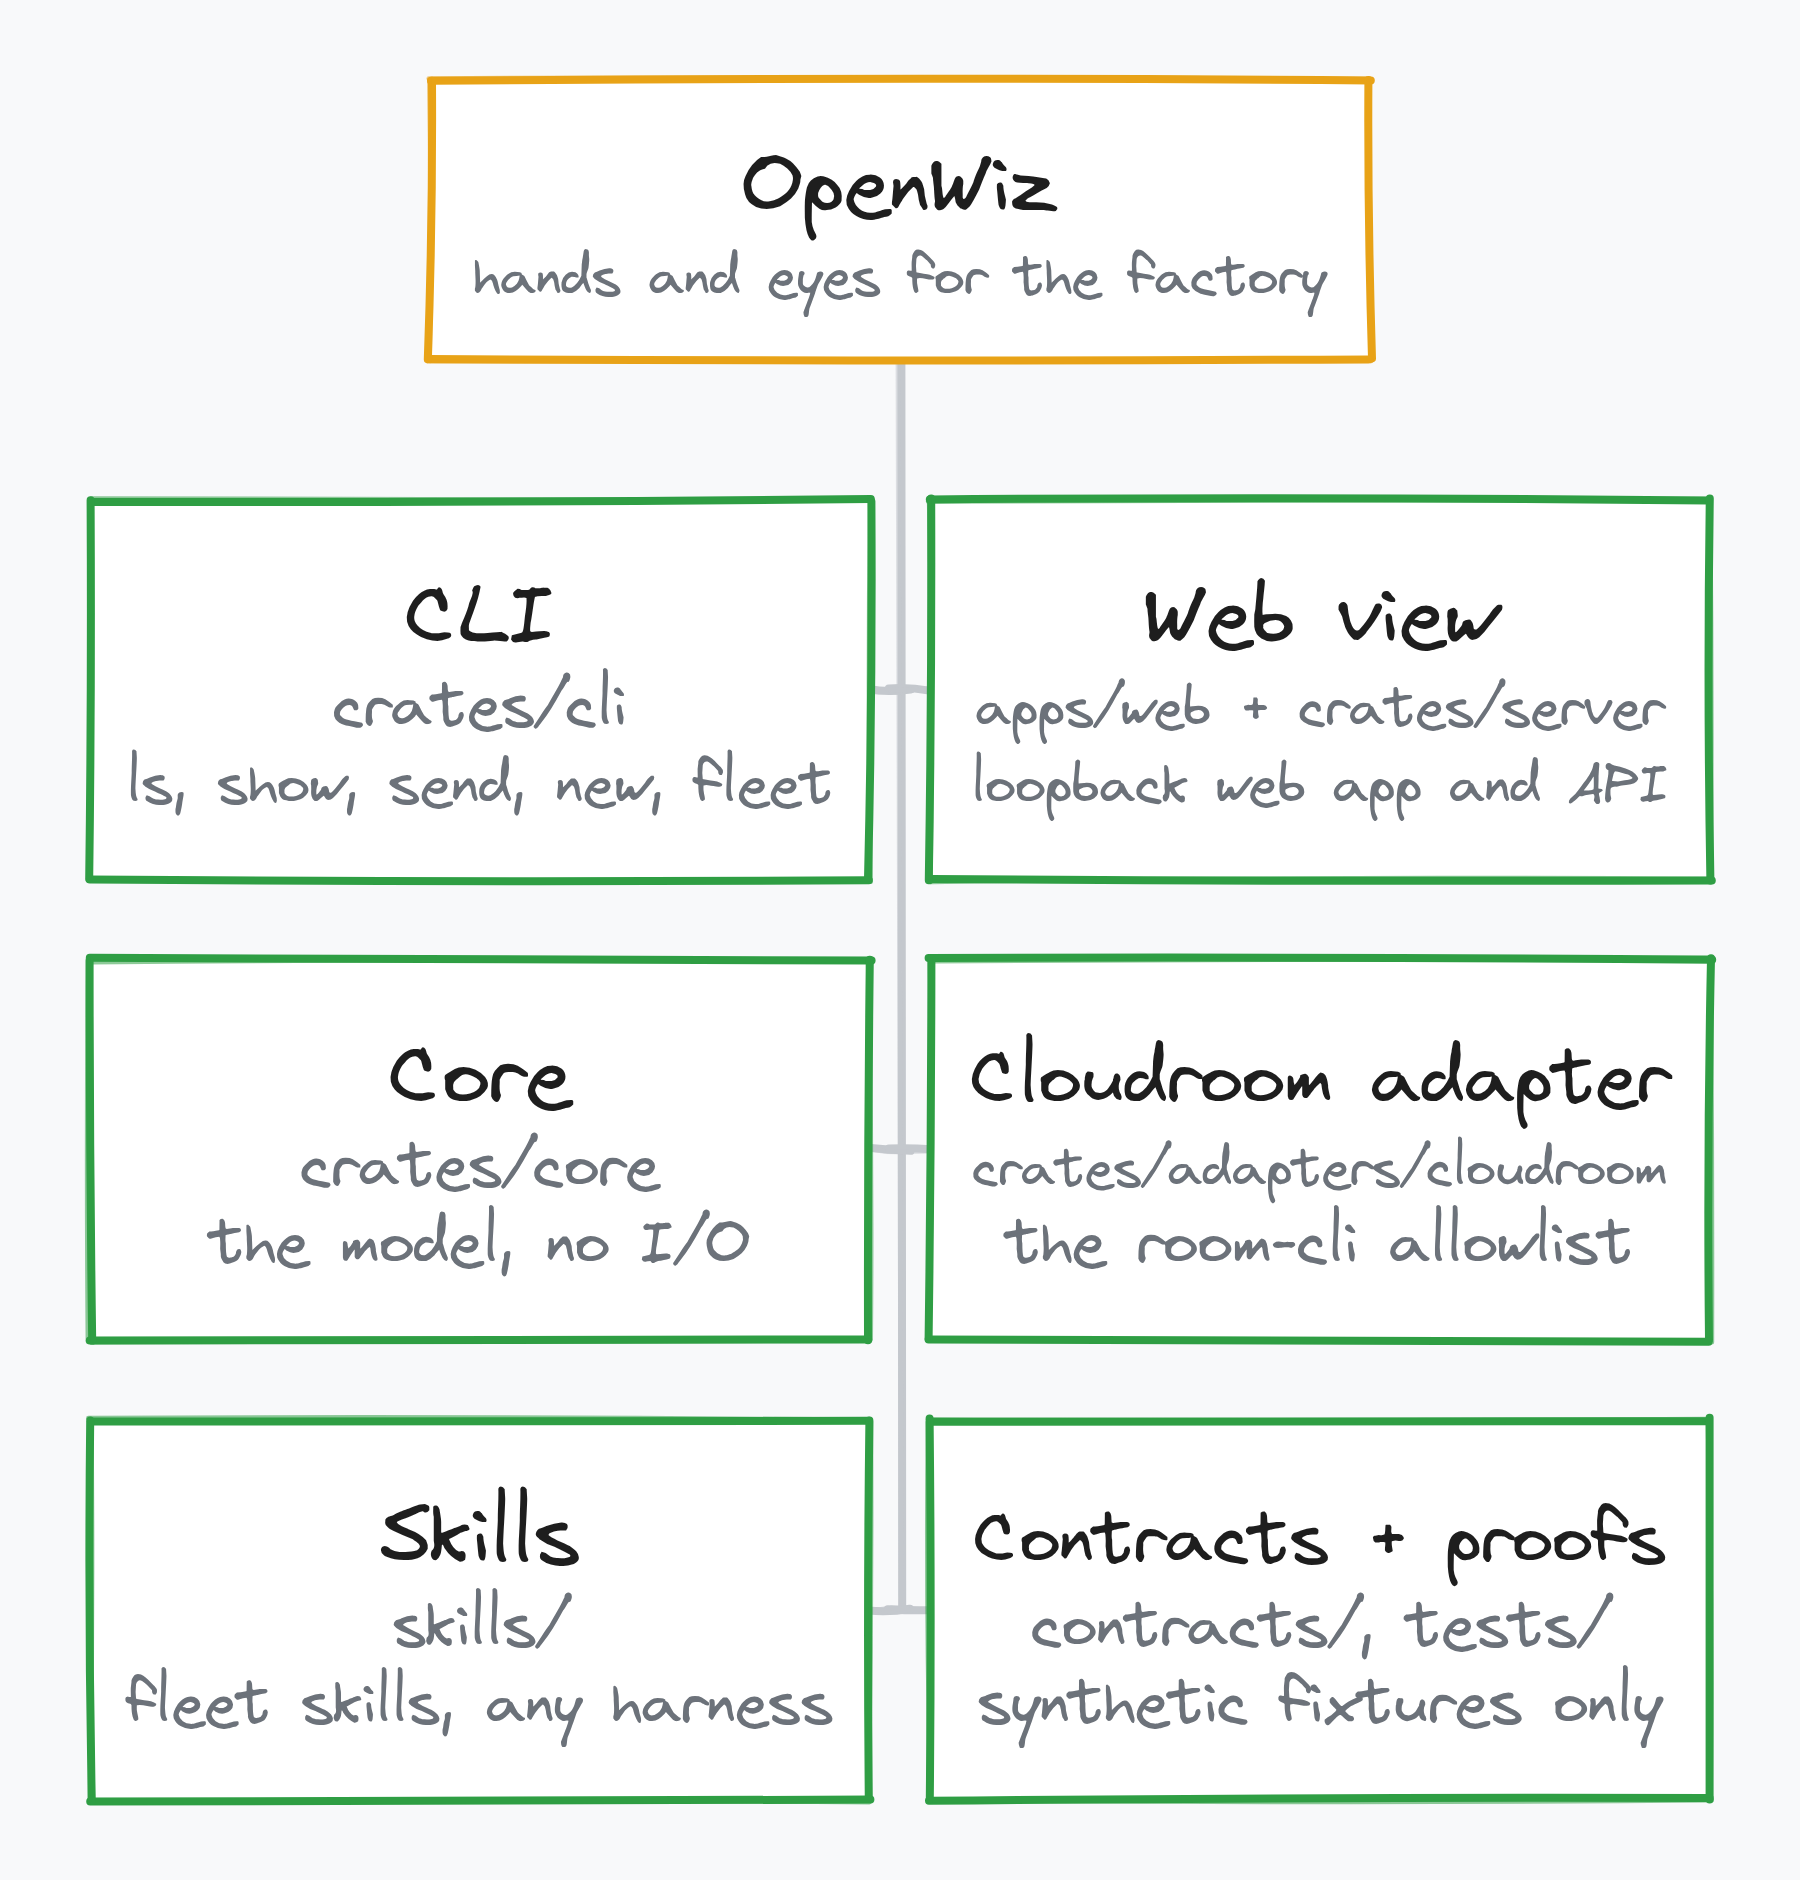
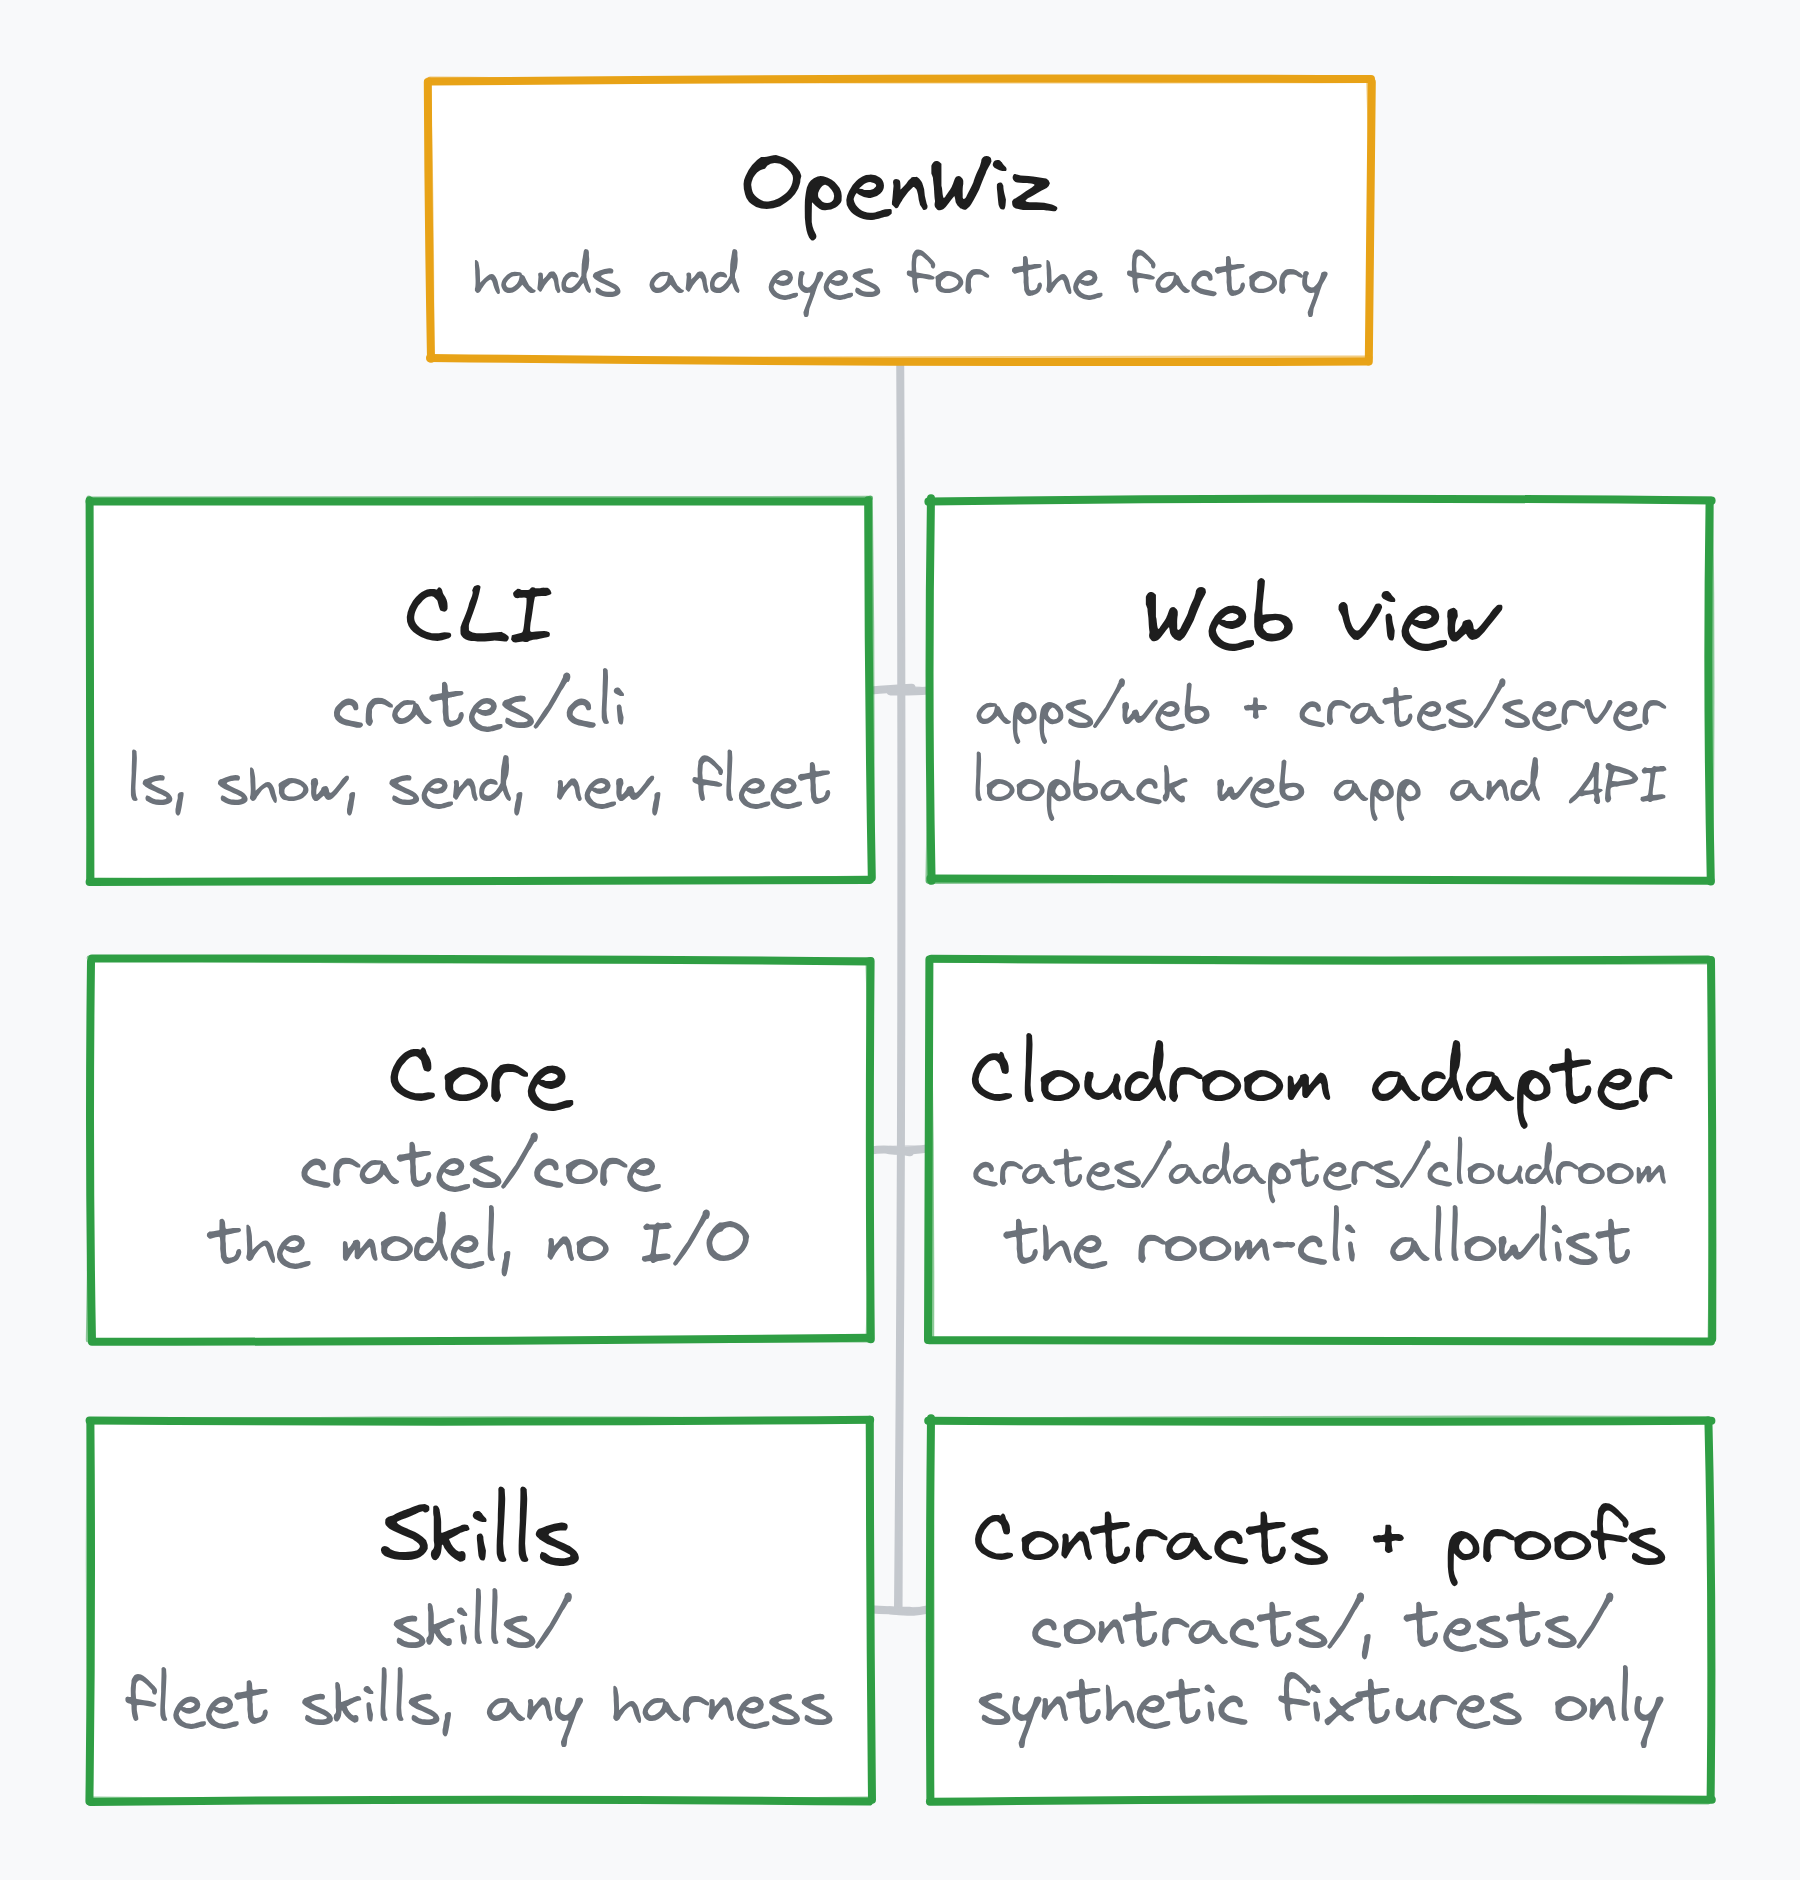
README map: a one-column picture for phones

diff --git a/README.md b/README.md
@@ -14,7 +14,10 @@ Development targets the public repository [openwizdev/OpenWiz](https://github.co
 
 ## Map
 
-![OpenWiz's parts: the CLI, the web view, the core, the Cloudroom adapter, the skills, and the contracts and proofs](docs/map.png)
+<picture>
+  <source media="(max-width: 600px)" srcset="docs/map-phone.png">
+  <img alt="OpenWiz's parts: the CLI, the web view, the core, the Cloudroom adapter, the skills, and the contracts and proofs" src="docs/map.png" width="560">
+</picture>
 
 OpenWiz is the factory's hands (the CLI) and part of its eyes (the web view). The [org map](https://github.com/openwizdev) shows how it fits with the other repos.
 
